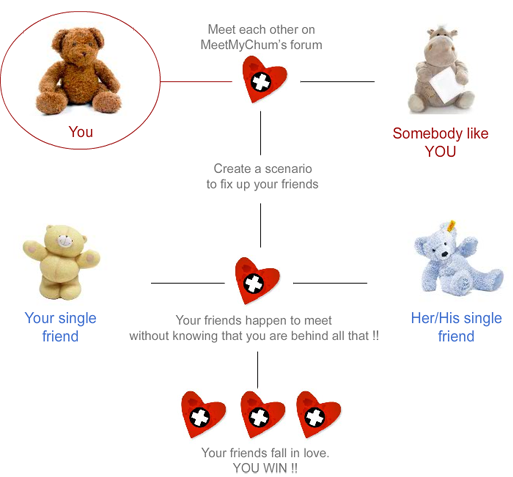
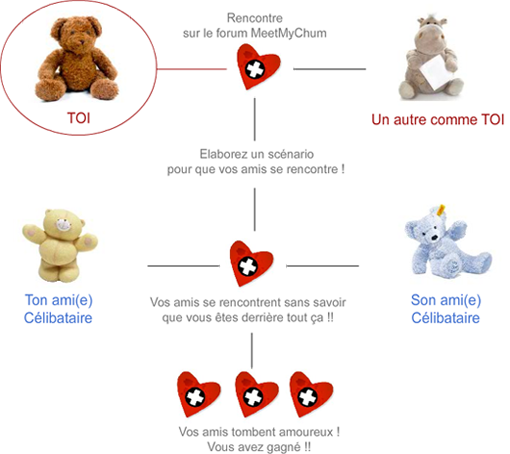
version anglaise + francaise sans flag

diff --git a/WebContent/css/meetmychum.css b/WebContent/css/meetmychum.css
@@ -18,7 +18,7 @@ a {
 #logo
 {
    position:absolute;
-   top:25px;
+   top:15px;
    width:417px;
    height:156px;
    
@@ -27,7 +27,7 @@ a {
 #rabbits
 {
    position:absolute;
-   top:25px;
+   top:15px;
    left:400px;
    
 }
@@ -36,7 +36,7 @@ a {
    border:0px solid black;
    position:absolute;
    left:700px;
-   top:95px;
+   top:85px;
    width:335px;
 }
 
@@ -46,7 +46,7 @@ a {
 	position:relative;
 	width:100%;
 	height:550px;
-	top:160px;
+	top:152px;
 	background-image:url(../images/bgContent.gif);
 	border:1px solid #A5A5A5;
 	background-attachment: scroll;

diff --git a/WebContent/index.html b/WebContent/index.html
@@ -25,7 +25,7 @@
         	Sur le premier site de  rencontre qui n'est pas fait pour vous mais pour vos ami(e)s célibataires ! 
         	Il est temps de leur trouver l'âme soeur !
         </p>
-        <h2>Qu'est ce qui est FUN pour vous ?</h2> 
+        <h2>Qu'est ce qui est le FUN pour vous ?</h2> 
         <p>
         	Créer un scénario pour faire tomber vos ami(e)s dans le piège de l'amour !
 		</p>

diff --git a/WebContent/indexEn.html b/WebContent/indexEn.html
@@ -35,7 +35,7 @@
      
 	<script src="http://connect.facebook.net/en_US/all.js#xfbml=1"></script><fb:like-box href="http://www.facebook.com/pages/Meet-My-Chum#!/pages/Meet-My-Chum/142906152424801" height="270" stream="false" header="false"></fb:like-box>
     <span>
-       <img src="images/fr/schema.png" id="schema">
+       <img src="images/en/schema.png" id="schema">
     </span>
   </div>
 

diff --git a/WebContent/css/home.css b/WebContent/css/home.css
@@ -8,7 +8,7 @@ body {
 #schema
 {
    position: absolute;
-   top:40px;
+   top:20px;
    left:370px;
    
 }
